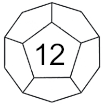
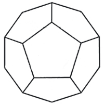
Animation using javaScript

Changed region(s): [[0.4615, 0.4038, 0.6346, 0.6346], [0.3462, 0.4038, 0.4327, 0.6346]]

diff --git a/index.html b/index.html
@@ -29,7 +29,10 @@
      <div class="d-md-flex justify-content-md-around">
         <div style="margin: 10px; margin-bottom: 10px">
           <h4>Čtyřstěnná</h4>
-          <img id="ctyrykostka" src="4kostka/4kostka4.png" alt="Kostka" />
+          <div class="container1">
+            <img id="ctyrykostka" src="4kostka/4kostka4.png" alt="Kostka" />
+            <div class="centered2" id="ctyrykostkatext">4</div>
+          </div>
           <div id="ctyrystatistika">Statistika</div>
           <button class="btn btn-outline-primary" id="ctyrytlacitko">
             Play
@@ -43,7 +46,10 @@
         </div>
         <div style="margin: 10px; margin-bottom: 10px">
           <h4>Dvanáctistěnná</h4>
-          <img id="dvanactkostka" src="12kostka/12kostka12.png" alt="Kostka" />
+          <div class="container1">
+            <img id="dvanactkostka" src="12kostka/12kostka12.png" alt="Kostka" />
+            <div class="centered3" id="dvanactkostkatext">12</div>
+          </div>
           <div id="dvanactstatistika">Statistika</div>
           <button class="btn btn-outline-primary" id="dvanacttlacitko">
             Play
@@ -51,7 +57,10 @@
         </div>
         <div style="margin: 10px; margin-bottom: 10px">
           <h4>Dvacetistěnná</h4>
-          <img id="dvacetkostka" src="20kostka/20kostka20.png" alt="Kostka" />
+          <div class="container1">
+            <img id="dvacetkostka" src="20kostka/20kostka20.png" alt="Kostka" />
+            <div class="centered4" id="dvacetkostkatext">20</div>
+          </div>
           <div id="dvacetstatistika">Statistika</div>
           <button class="btn btn-outline-primary" id="dvacettlacitko">
             Play
@@ -68,46 +77,6 @@
           <button class="btn btn-outline-primary" id="stotlacitko">Play</button>
         </div>
       </div>
-       <!--<div class="row">
-            <div class="col-lg-4 col-md-4 col-sm-12" style="margin: 10px; margin-bottom: 10px;">
-                <h4>Čtyřstěnná</h4>
-                <img id="ctyrykostka" src="4kostka/4kostka4.png" alt="Kostka">
-            <div id="ctyrystatistika">Statistika</div>
-            <button class="btn btn-outline-primary" id="ctyrytlacitko">Play</button>
-        </div>
-        <div class="col-lg-4 col-md-4 col-sm-12" style="margin: 10px; margin-bottom: 10px;">
-                <h4>Klasická</h4>
-                <img id="kostka" src="img/kostka6.png" alt="Kostka">
-            <div id="statistika">Statistika</div>
-            <button class="btn btn-outline-primary" id="tlacitko">Play</button>
-        </div>
-        <div class="col-lg-4 col-md-4 col-sm-12" style="margin: 10px; margin-bottom: 10px;">
-                <h4>Dvanáctistěnná</h4>
-                <img id="dvanactkostka" src="12kostka/12kostka12.png" alt="Kostka">
-            <div id="dvanactstatistika">Statistika</div>
-            <button class="btn btn-outline-primary" id="dvanacttlacitko">Play</button>
-        </div>
-        </div>
-        <div class="row"> 
-            <div class="col-lg-6 col-md-6 col-sm-12" style="margin: 10px; margin-bottom: 10px">
-                <h4>Dvacetistěnná</h4>
-                <img id="dvacetkostka" src="20kostka/20kostka20.png" alt="Kostka" />
-                <div id="dvacetstatistika">Statistika</div>
-                <button class="btn btn-outline-primary" id="dvacettlacitko">
-                  Play
-                </button>
-              </div>
-      
-              <div class="col-lg-6 col-md-6 col-sm-12" style="margin: 10px; margin-bottom: 10px">
-                <h4>Stostěnná</h4>
-                <div class="container1">
-                  <img id="stokostka" src="100kostka/100kostka.png" alt="Kostka" />
-                  <div class="centered" id="stokostkatext">100</div>
-                </div>
-                <div id="stostatistika">Statistika</div>
-                <button class="btn btn-outline-primary" id="stotlacitko">Play</button>
-              </div>
-        </div>-->
     </main>
     <footer class="py-5 bg-primary">
       <div class="container">

diff --git a/js/game.js b/js/game.js
@@ -1,13 +1,14 @@
 const ctyrykostka = document.getElementById('ctyrykostka');
 const ctyrystatistika = document.getElementById('ctyrystatistika');
 const ctyrytlacitko = document.getElementById('ctyrytlacitko');
+const ctyrykostkatext = document.getElementById('ctyrykostkatext')
 let hod4 = 1;
 let hody4 = [];
 let timer4 = false;
 
 function animace4 () {
     hod4 = Math.ceil (Math.random() * 4);
-    ctyrykostka.src = '4kostka/4kostka' + hod4 + '.png';
+    ctyrykostkatext.innerHTML = hod4;
 }
 ctyrytlacitko.addEventListener('click', function(){
     if(!timer4){
@@ -116,13 +117,14 @@ function vypisStatistiky (){
 const dvanactkostka = document.getElementById('dvanactkostka');
 const dvanactstatistika = document.getElementById('dvanactstatistika');
 const dvanacttlacitko = document.getElementById('dvanacttlacitko');
+const dvanactkostkatext = document.getElementById('dvanactkostkatext')
 let hod12 = 1;
 let hody12 = [];
 let timer12 = false;
 
 function animace12 () {
     hod12 = Math.ceil (Math.random() * 12);
-dvanactkostka.src = '12kostka/12kostka' + hod12 + '.png';
+dvanactkostkatext.innerHTML = hod12;
 }
 dvanacttlacitko.addEventListener('click', function(){
     if(!timer12){
@@ -172,13 +174,14 @@ function vypisStatistiky12 (){
 const dvacetkostka = document.getElementById('dvacetkostka');
 const dvacetstatistika = document.getElementById('dvacetstatistika');
 const dvacettlacitko = document.getElementById('dvacettlacitko');
+const dvacetkostkatext = document.getElementById('dvacetkostkatext');
 let hod20 = 1;
 let hody20 = [];
 let timer20 = false;
 
 function animace20 () {
     hod20 = Math.ceil (Math.random() * 20);
-    dvacetkostka.src = '20kostka/20kostka' + hod20 + '.png';
+    dvacetkostkatext.innerHTML = hod20 ;
 }
 dvacettlacitko.addEventListener('click', function(){
     if(!timer20){

diff --git a/css/css.css b/css/css.css
@@ -9,6 +9,33 @@
     left: 50%;
     transform: translate(-50%, -50%);
   }
+  .centered2 {
+    position: absolute;
+    top: 60%;
+    left: 48%;
+    transform: translate(-50%, -50%);
+  }
+  .centered3 {
+    position: absolute;
+    top: 50%;
+    left: 49%;
+    transform: translate(-50%, -50%);
+  }
+  .centered4 {
+    position: absolute;
+    top: 50%;
+    left: 51%;
+    transform: translate(-50%, -50%);
+  }
   #stokostkatext{
     font-size: 200%;
+  }
+  #ctyrykostkatext{
+    font-size: 200%;
+  }
+  #dvanactkostkatext{
+    font-size: 200%;
+  }
+  #dvacetkostkatext{
+    font-size: 170%;
   }
